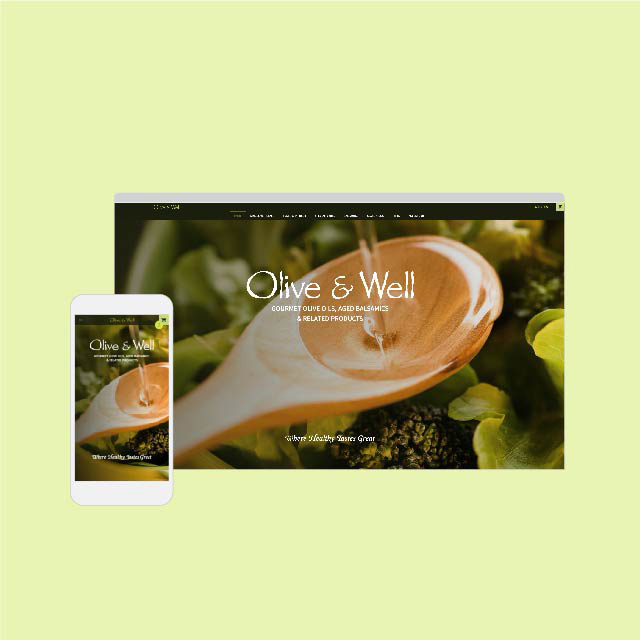
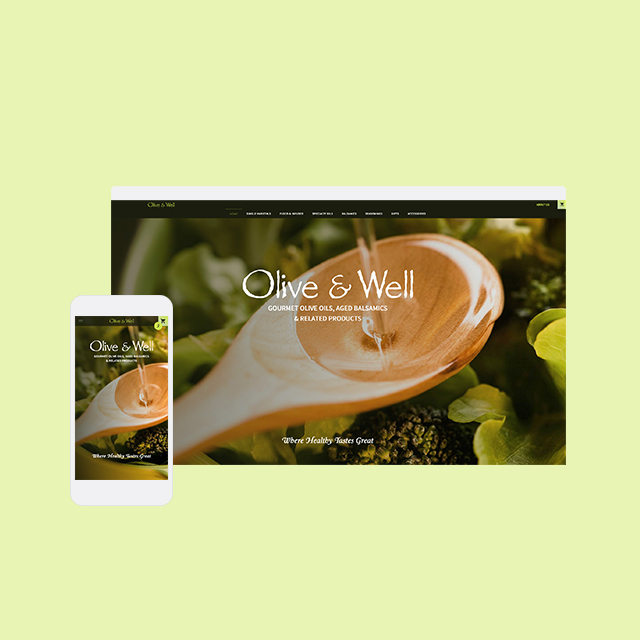
more stuff added

diff --git a/css/styles.css b/css/styles.css
@@ -1,1 +1,1 @@
-html,body,div,span,applet,object,iframe,h1,h2,h3,h4,h5,h6,p,blockquote,pre,a,abbr,acronym,address,big,cite,code,del,dfn,em,img,ins,kbd,q,s,samp,small,strike,strong,sub,sup,tt,var,b,u,i,center,dl,dt,dd,ol,ul,li,fieldset,form,label,legend,table,caption,tbody,tfoot,thead,tr,th,td,article,aside,canvas,details,embed,figure,figcaption,footer,header,hgroup,menu,nav,output,ruby,section,summary,time,mark,audio,video{margin:0;padding:0;border:0;font:inherit;font-size:100%;vertical-align:baseline}html{line-height:1}ol,ul{list-style:none}table{border-collapse:collapse;border-spacing:0}caption,th,td{text-align:left;font-weight:normal;vertical-align:middle}q,blockquote{quotes:none}q:before,q:after,blockquote:before,blockquote:after{content:"";content:none}a img{border:none}article,aside,details,figcaption,figure,footer,header,hgroup,main,menu,nav,section,summary{display:block}@media screen and (-ms-high-contrast: active), (-ms-high-contrast: none){img[src*=".svg"]{width:100%}}html,body{overflow-x:hidden}html{font-size:100%}@font-face{font-family:"SourceSansReg";src:url('../fonts/SourceSansPro-Regular.otf?1458185356') format('opentype')}@font-face{font-family:"SourceSansLight";src:url('../fonts/SourceSansPro-Light.otf?1458185356') format('opentype')}@font-face{font-family:"SourceSansBold";src:url('../fonts/SourceSansPro-Bold.otf?1458185356') format('opentype')}a{color:#191919;text-decoration:none}a:hover{color:#000;opacity:1}p{font-size:1rem;line-height:1.618rem;color:#191919}body{font-family:"futura-pt",sans-serif,"SourceSansReg";margin:0px;padding:0px}@media (min-width: 320px){body{-moz-transition:all 1s ease-out;-o-transition:all 1s ease-out;-webkit-transition:all 1s ease-out;transition:all 1s ease-out}body h1{font-size:4.2358rem;font-weight:300}body h2{font-size:2.61792rem;font-weight:400}body h3{font-size:1.618rem}body h4{font-size:1rem;text-transform:uppercase}}@media (min-width: 760px){body{-moz-transition:all 1s ease-out;-o-transition:all 1s ease-out;-webkit-transition:all 1s ease-out;transition:all 1s ease-out}}@media (min-width: 980px){body{-moz-transition:all 1s ease-out;-o-transition:all 1s ease-out;-webkit-transition:all 1s ease-out;transition:all 1s ease-out}}@media (min-width: 1240px){body{-moz-transition:all 1s ease-out;-o-transition:all 1s ease-out;-webkit-transition:all 1s ease-out;transition:all 1s ease-out}}@media (min-width: 1900px){body{-moz-transition:all 1s ease-out;-o-transition:all 1s ease-out;-webkit-transition:all 1s ease-out;transition:all 1s ease-out}}h1,h2,h3,h4{color:black}.mainContainer{width:100%;max-width:1880px;margin:0 auto}@media (min-width: 320px){.mainContainer{-moz-transition:all 1s ease-out;-o-transition:all 1s ease-out;-webkit-transition:all 1s ease-out;transition:all 1s ease-out}.mainContainer .contacts{width:100%}.mainContainer .contacts .contactInfo{padding-top:1.618rem;padding-right:2.61792rem}.mainContainer .contacts .contactInfo p{font-size:1rem;line-height:2.61792rem;font-weight:300;text-align:right}.mainContainer .contacts .contactInfo p a{text-decoration:none;color:white}.mainContainer .header{width:1580px;height:240px;position:absolute;-moz-transform:translateX(-50%);-ms-transform:translateX(-50%);-webkit-transform:translateX(-50%);transform:translateX(-50%);left:50%;top:0px;opacity:0.5}.mainContainer .header p{font-size:1.618rem;text-transform:uppercase;color:black;padding-top:108px}.mainContainer .header .pageTitle{float:left;width:50%;z-index:979}.mainContainer .header .pageTitle p{font-weight:300}.mainContainer .header .projectTitle{float:left;width:50%;z-index:979}.mainContainer .header .projectTitle p{font-weight:300;text-transform:none}.mainContainer .header .links div{float:right;margin-left:6.85353rem;padding-bottom:1.618rem}.mainContainer .header .links div a{text-decoration:none}.mainContainer .header .links div p{font-weight:700}.mainContainer .header .links .active{border-bottom:5px solid #191919}}@media (min-width: 320px) and (min-width: 320px){.mainContainer .navbg-hidden{will-change:transform;-moz-transition:all 0.9s ease-out;-o-transition:all 0.9s ease-out;-webkit-transition:all 0.9s ease-out;transition:all 0.9s ease-out;position:fixed;background-color:white;z-index:99;opacity:1}}@media (min-width: 320px){.mainContainer .spacer{height:240px}.mainContainer .workContainer{width:1580px;margin:240px auto 0}.mainContainer .workContainer .projectName p{font-weight:700;font-size:1.618rem}.mainContainer .workContainer .next{float:right}.mainContainer .workContainer .content{padding-top:6.85353rem}.mainContainer .workContainer .content h4{font-size:1rem;text-transform:uppercase;text-align:center;padding-bottom:11.08901rem}.mainContainer .workContainer .content p{padding-bottom:11.08901rem;width:480px;margin:0 auto}.mainContainer .workContainer .content img{width:100%;padding-bottom:11.08901rem}.mainContainer .portrait{margin-top:240px}.mainContainer .portrait img{width:520px}.mainContainer .aboutText{width:100%}.mainContainer .aboutText div{padding:11.08901rem 2.61792rem}.mainContainer .aboutText div p{font-family:"futura-pt",sans-serif;font-size:1rem;line-height:1.618rem;font-weight:400}.mainContainer .aboutText div dfn{font-style:italic;font-size:1rem;line-height:1rem}.mainContainer .aboutText div em{font-style:italic;font-size:0.61805rem}.mainContainer .columns{width:50%;float:left}.mainContainer .columns .slickContainer{width:68%;margin:0 auto}.mainContainer .columns .workText{height:240px}.mainContainer .columns .workText a{text-decoration:none}.mainContainer .columns .workText p:first-of-type{font-family:"futura-pt",sans-serif,"SourceSansBold";font-weight:700;font-style:normal;font-size:1.618rem;line-height:4.2358rem;letter-spacing:0.05px;padding-top:27px}.mainContainer .columns .workText p:last-of-type{font-family:"futura-pt",sans-serif,"SourceSansReg";font-weight:400;font-style:normal;font-size:1rem;line-height:1.618rem;letter-spacing:0.07px}.mainContainer .columns .workText .aboutWork{font-style:italic;color:gray;font-size:0.61805rem}}@media (min-width: 760px){.mainContainer{-moz-transition:all 1s ease-out;-o-transition:all 1s ease-out;-webkit-transition:all 1s ease-out;transition:all 1s ease-out}.mainContainer .fclogo{width:22px;top:34px;left:2.61792rem}.mainContainer .contacts .contactInfo{padding-top:2.61792rem;padding-right:4.2358rem}.mainContainer .contacts .contactInfo p{font-size:1rem;line-height:4vh;font-weight:300}.mainContainer .contacts .contactInfo p a{text-decoration:none;color:white}.mainContainer .artbox{width:99vw;height:99.5vh}.mainContainer .aboutText div{padding:10vh 2.61792rem;width:480px;-moz-transform:translateX(-50%);-ms-transform:translateX(-50%);-webkit-transform:translateX(-50%);transform:translateX(-50%);left:50%;position:absolute}}@media (min-width: 980px){.mainContainer{-moz-transition:all 1s ease-out;-o-transition:all 1s ease-out;-webkit-transition:all 1s ease-out;transition:all 1s ease-out}.mainContainer .contacts .contactInfo{padding-top:1.618rem;padding-right:4.2358rem}.mainContainer .contacts .contactInfo p{font-size:1rem;line-height:4vh;font-weight:300}}@media (min-width: 1240px){.mainContainer{-moz-transition:all 1s ease-out;-o-transition:all 1s ease-out;-webkit-transition:all 1s ease-out;transition:all 1s ease-out}.mainContainer .fclogo{width:20px;top:32px;left:2.61792rem;cursor:pointer}.mainContainer .contacts .contactInfo{padding-top:1.618rem;padding-right:4.2358rem}.mainContainer .contacts .contactInfo p{font-size:1rem;line-height:2.61792rem;font-weight:300}.mainContainer .aboutText{width:100%}.mainContainer .aboutText div{-moz-transition:all 1s ease-out;-o-transition:all 1s ease-out;-webkit-transition:all 1s ease-out;transition:all 1s ease-out;position:relative;width:480px;padding:11.08901rem 2.61792rem}.mainContainer .aboutText div p{font-weight:400;line-height:1.618rem;color:black}}@media (min-width: 1900px){.mainContainer{-moz-transition:all 1s ease-out;-o-transition:all 1s ease-out;-webkit-transition:all 1s ease-out;transition:all 1s ease-out}.mainContainer .fclogo{width:24px;top:40px;left:4.2358rem;z-index:999;cursor:pointer}.mainContainer .contacts{width:100%;height:17.94201rem;padding-top:1.618rem}.mainContainer .contacts .contactInfo{padding-right:11.08901rem}.mainContainer .contacts .contactInfo p{font-size:1rem;line-height:4.2358rem;font-weight:400}.mainContainer .contacts .contactInfo p a{text-decoration:none;color:white}.mainContainer .circle{-moz-transition-delay:0s;-o-transition-delay:0s;-webkit-transition-delay:0s;transition-delay:0s;-moz-transition-duration:0.2s;-o-transition-duration:0.2s;-webkit-transition-duration:0.2s;transition-duration:0.2s;-moz-transition-timing-function:ease-out;-o-transition-timing-function:ease-out;-webkit-transition-timing-function:ease-out;transition-timing-function:ease-out;width:44px;height:44px;top:2.61792rem;right:2.61792rem;opacity:1}.mainContainer .circle.square{-moz-transition-delay:0s;-o-transition-delay:0s;-webkit-transition-delay:0s;transition-delay:0s;-moz-transition-duration:0.2s;-o-transition-duration:0.2s;-webkit-transition-duration:0.2s;transition-duration:0.2s;-moz-transition-timing-function:ease-in;-o-transition-timing-function:ease-in;-webkit-transition-timing-function:ease-in;transition-timing-function:ease-in;height:100%;width:100%;top:0px;right:0px;border:0px;-moz-border-radius:0px;-webkit-border-radius:0px;border-radius:0px;opacity:0.9}.mainContainer .aboutText div{position:absolute;width:960px;-moz-column-count:2;-webkit-column-count:2;column-count:2;-moz-column-gap:11.08901rem;-webkit-column-gap:11.08901rem;column-gap:11.08901rem;max-width:1100px;-moz-transform:translateX(-50%);-ms-transform:translateX(-50%);-webkit-transform:translateX(-50%);transform:translateX(-50%);top:8%;left:50%}.mainContainer .aboutText div p{font-size:1rem;font-weight:400;line-height:1.618rem}}footer{font-family:"SourceSansReg"}@media (min-width: 320px){footer{-moz-transition:all 1s ease-out;-o-transition:all 1s ease-out;-webkit-transition:all 1s ease-out;transition:all 1s ease-out}footer .copyright{position:fixed;padding:0.61805rem;right:10px;bottom:150px;-moz-transform:rotate(-90deg);-ms-transform:rotate(-90deg);-webkit-transform:rotate(-90deg);transform:rotate(-90deg);-moz-transform-origin:100% 50%;-ms-transform-origin:100% 50%;-webkit-transform-origin:100% 50%;transform-origin:100% 50%;z-index:999}footer .copyright p{font-size:0.61805rem;color:gray;font-weight:400;line-height:1rem;letter-spacing:0.04rem;opacity:0.8}}@media (min-width: 760px){footer{-moz-transition:all 1s ease-out;-o-transition:all 1s ease-out;-webkit-transition:all 1s ease-out;transition:all 1s ease-out}footer .copyright p{font-size:0.61805rem;line-height:1rem}}@media (min-width: 980px){footer{-moz-transition:all 1s ease-out;-o-transition:all 1s ease-out;-webkit-transition:all 1s ease-out;transition:all 1s ease-out}}@media (min-width: 1240px){footer{-moz-transition:all 1s ease-out;-o-transition:all 1s ease-out;-webkit-transition:all 1s ease-out;transition:all 1s ease-out}footer .copyright{padding:0.61805rem;right:10px;bottom:150px}}@media (min-width: 1900px){footer{-moz-transition:all 1s ease-out;-o-transition:all 1s ease-out;-webkit-transition:all 1s ease-out;transition:all 1s ease-out}footer .copyright{right:1.618rem;bottom:200px}}@media (min-width: 320px){body{-moz-transition:all 1s ease-out;-o-transition:all 1s ease-out;-webkit-transition:all 1s ease-out;transition:all 1s ease-out}body .slick-prev,body .slick-next{position:absolute;z-index:900;display:block;height:40px;width:40px;line-height:0px;font-size:0px;cursor:pointer;background:transparent;color:transparent;top:50%;-moz-transform:translate(0, -50%) scale(1);-ms-transform:translate(0, -50%) scale(1);-webkit-transform:translate(0, -50%) scale(1);transform:translate(0, -50%) scale(1);padding:0;border:none;outline:none}body .slick-prev:hover,body .slick-prev:focus,body .slick-next:hover,body .slick-next:focus{outline:none;background:transparent;color:transparent}body .slick-prev:hover:before,body .slick-prev:focus:before,body .slick-next:hover:before,body .slick-next:focus:before{opacity:1}body .slick-prev.slick-disabled:before,body .slick-next.slick-disabled:before{opacity:1}body .slick-prev:before,body .slick-next:before{font-family:"futura-pt",sans-serif;font-size:1.618rem;line-height:1;color:#191919;opacity:0;-webkit-font-smoothing:antialiased;-moz-osx-font-smoothing:grayscale}body .slick-prev{left:1rem}[dir="ltr"] body .slick-prev{left:auto;right:1rem}body .slick-prev:before{content:" ≪ "}[dir="ltr"] body .slick-prev:before{content:" ≫ "}body .slick-next{right:1rem}[dir="ltr"] body .slick-next{left:1rem;right:auto}body .slick-next:before{content:" ≫ "}[dir="ltr"] body .slick-next:before{content:" ≪ "}body .slick-slide{z-index:-1}body .slick-slide img{width:100%;position:relative;cursor:pointer;margin:0 auto}body .slick-dotted.slick-slider{margin-bottom:1rem}body .slick-dots{position:absolute;list-style:none;display:block;text-align:center;padding:0;margin:0;width:100%}body .slick-dots li{position:relative;display:inline-block;height:44px;width:30px;margin:0.61805rem 0.61805rem;padding:0;cursor:pointer}body .slick-dots li button{border:0;background:transparent;display:block;height:44px;width:44px;outline:none;line-height:0px;font-size:0px;color:transparent;padding:5px;cursor:pointer;-moz-transform:scale(0.5);-ms-transform:scale(0.5);-webkit-transform:scale(0.5);transform:scale(0.5)}body .slick-dots li button:hover,body .slick-dots li button:focus{outline:none}body .slick-dots li button:hover:before,body .slick-dots li button:focus:before{opacity:1}body .slick-dots li button:before{position:absolute;top:0;left:0;content:" ● ";width:44px;height:44px;font-family:"futura-pt",sans-serif;font-size:1rem;line-height:20px;text-align:center;color:#191919;opacity:1;-webkit-font-smoothing:antialiased;-moz-osx-font-smoothing:grayscale}body .slick-dots li.slick-active button:before{color:dimgray;opacity:1}}@media (min-width: 760px){body{-moz-transition:all 1s ease-out;-o-transition:all 1s ease-out;-webkit-transition:all 1s ease-out;transition:all 1s ease-out}}@media (min-width: 980px){body{-moz-transition:all 1s ease-out;-o-transition:all 1s ease-out;-webkit-transition:all 1s ease-out;transition:all 1s ease-out}}@media (min-width: 1240px){body{-moz-transition:all 1s ease-out;-o-transition:all 1s ease-out;-webkit-transition:all 1s ease-out;transition:all 1s ease-out}}@media (min-width: 1900px){body{-moz-transition:all 1s ease-out;-o-transition:all 1s ease-out;-webkit-transition:all 1s ease-out;transition:all 1s ease-out}}
+html,body,div,span,applet,object,iframe,h1,h2,h3,h4,h5,h6,p,blockquote,pre,a,abbr,acronym,address,big,cite,code,del,dfn,em,img,ins,kbd,q,s,samp,small,strike,strong,sub,sup,tt,var,b,u,i,center,dl,dt,dd,ol,ul,li,fieldset,form,label,legend,table,caption,tbody,tfoot,thead,tr,th,td,article,aside,canvas,details,embed,figure,figcaption,footer,header,hgroup,menu,nav,output,ruby,section,summary,time,mark,audio,video{margin:0;padding:0;border:0;font:inherit;font-size:100%;vertical-align:baseline}html{line-height:1}ol,ul{list-style:none}table{border-collapse:collapse;border-spacing:0}caption,th,td{text-align:left;font-weight:normal;vertical-align:middle}q,blockquote{quotes:none}q:before,q:after,blockquote:before,blockquote:after{content:"";content:none}a img{border:none}article,aside,details,figcaption,figure,footer,header,hgroup,main,menu,nav,section,summary{display:block}@media screen and (-ms-high-contrast: active), (-ms-high-contrast: none){img[src*=".svg"]{width:100%}}html,body{overflow-x:hidden}html{font-size:100%}@font-face{font-family:"SourceSansReg";src:url('../fonts/SourceSansPro-Regular.otf?1458185356') format('opentype')}@font-face{font-family:"SourceSansLight";src:url('../fonts/SourceSansPro-Light.otf?1458185356') format('opentype')}@font-face{font-family:"SourceSansBold";src:url('../fonts/SourceSansPro-Bold.otf?1458185356') format('opentype')}a{color:#191919;text-decoration:none}a:hover{color:#000;opacity:1}p{font-size:1rem;line-height:1.618rem;color:#191919}body{font-family:"futura-pt",sans-serif,"SourceSansReg";margin:0px;padding:0px}@media (min-width: 320px){body{-moz-transition:all 1s ease-out;-o-transition:all 1s ease-out;-webkit-transition:all 1s ease-out;transition:all 1s ease-out}body h1{font-size:4.2358rem;font-weight:300}body h2{font-size:2.61792rem;font-weight:400}body h3{font-size:1.618rem}body h4{font-size:1rem;text-transform:uppercase}}@media (min-width: 760px){body{-moz-transition:all 1s ease-out;-o-transition:all 1s ease-out;-webkit-transition:all 1s ease-out;transition:all 1s ease-out}}@media (min-width: 980px){body{-moz-transition:all 1s ease-out;-o-transition:all 1s ease-out;-webkit-transition:all 1s ease-out;transition:all 1s ease-out}}@media (min-width: 1240px){body{-moz-transition:all 1s ease-out;-o-transition:all 1s ease-out;-webkit-transition:all 1s ease-out;transition:all 1s ease-out}}@media (min-width: 1900px){body{-moz-transition:all 1s ease-out;-o-transition:all 1s ease-out;-webkit-transition:all 1s ease-out;transition:all 1s ease-out}}h1,h2,h3,h4{color:black}.mainContainer{width:100%;max-width:1880px;margin:0 auto}@media (min-width: 320px){.mainContainer{-moz-transition:all 1s ease-out;-o-transition:all 1s ease-out;-webkit-transition:all 1s ease-out;transition:all 1s ease-out}.mainContainer .contacts{width:100%}.mainContainer .contacts .contactInfo{padding-top:1.618rem;padding-right:2.61792rem}.mainContainer .contacts .contactInfo p{font-size:1rem;line-height:2.61792rem;font-weight:300;text-align:right}.mainContainer .contacts .contactInfo p a{text-decoration:none;color:white}.mainContainer .header{width:1580px;height:240px;position:absolute;-moz-transform:translateX(-50%);-ms-transform:translateX(-50%);-webkit-transform:translateX(-50%);transform:translateX(-50%);left:50%;top:0px;opacity:0.35}.mainContainer .header p{font-size:1.618rem;text-transform:uppercase;color:black;padding-top:108px}.mainContainer .header .pageTitle{float:left;width:50%;z-index:979}.mainContainer .header .pageTitle p{font-weight:300}.mainContainer .header .projectTitle{float:left;width:50%;z-index:979}.mainContainer .header .projectTitle p{font-weight:300;text-transform:none}.mainContainer .header .links div{float:right;margin-left:6.85353rem;padding-bottom:1.618rem}.mainContainer .header .links div a{text-decoration:none}.mainContainer .header .links div p{font-weight:700}.mainContainer .header .links .active{border-bottom:5px solid #191919}}@media (min-width: 320px) and (min-width: 320px){.mainContainer .navbg-hidden{will-change:transform;-moz-transition:all 0.9s ease-out;-o-transition:all 0.9s ease-out;-webkit-transition:all 0.9s ease-out;transition:all 0.9s ease-out;position:fixed;background-color:white;z-index:99;opacity:1}}@media (min-width: 320px){.mainContainer .spacer{height:240px}.mainContainer .workContainer{width:1580px;margin:240px auto 0}.mainContainer .workContainer .projectName p{font-weight:700;font-size:1.618rem}.mainContainer .workContainer .next{float:right}.mainContainer .workContainer .content{padding-top:6.85353rem}.mainContainer .workContainer .content h4{font-size:1rem;text-transform:uppercase;text-align:center;padding-bottom:11.08901rem}.mainContainer .workContainer .content p{padding-bottom:11.08901rem;width:480px;margin:0 auto}.mainContainer .workContainer .content img{width:100%;padding-bottom:11.08901rem}.mainContainer .portrait{margin-top:240px}.mainContainer .portrait img{width:520px}.mainContainer .aboutText{width:100%}.mainContainer .aboutText div{padding:11.08901rem 2.61792rem}.mainContainer .aboutText div p{font-family:"futura-pt",sans-serif;font-size:1rem;line-height:1.618rem;font-weight:400}.mainContainer .aboutText div dfn{font-style:italic;font-size:1rem;line-height:1rem}.mainContainer .aboutText div em{font-style:italic;font-size:0.61805rem}.mainContainer .columns{width:50%;float:left}.mainContainer .columns .slickContainer{width:68%;margin:0 auto}.mainContainer .columns .workText{height:240px}.mainContainer .columns .workText a{text-decoration:none}.mainContainer .columns .workText p:first-of-type{font-family:"futura-pt",sans-serif,"SourceSansBold";font-weight:700;font-style:normal;font-size:1.618rem;line-height:4.2358rem;letter-spacing:0.05px;padding-top:27px}.mainContainer .columns .workText p:last-of-type{font-family:"futura-pt",sans-serif,"SourceSansReg";font-weight:400;font-style:normal;font-size:1rem;line-height:1.618rem;letter-spacing:0.07px}.mainContainer .columns .workText .aboutWork{font-style:italic;color:gray;font-size:0.61805rem}}@media (min-width: 760px){.mainContainer{-moz-transition:all 1s ease-out;-o-transition:all 1s ease-out;-webkit-transition:all 1s ease-out;transition:all 1s ease-out}.mainContainer .fclogo{width:22px;top:34px;left:2.61792rem}.mainContainer .contacts .contactInfo{padding-top:2.61792rem;padding-right:4.2358rem}.mainContainer .contacts .contactInfo p{font-size:1rem;line-height:4vh;font-weight:300}.mainContainer .contacts .contactInfo p a{text-decoration:none;color:white}.mainContainer .artbox{width:99vw;height:99.5vh}.mainContainer .aboutText div{padding:10vh 2.61792rem;width:480px;-moz-transform:translateX(-50%);-ms-transform:translateX(-50%);-webkit-transform:translateX(-50%);transform:translateX(-50%);left:50%;position:absolute}}@media (min-width: 980px){.mainContainer{-moz-transition:all 1s ease-out;-o-transition:all 1s ease-out;-webkit-transition:all 1s ease-out;transition:all 1s ease-out}.mainContainer .contacts .contactInfo{padding-top:1.618rem;padding-right:4.2358rem}.mainContainer .contacts .contactInfo p{font-size:1rem;line-height:4vh;font-weight:300}}@media (min-width: 1240px){.mainContainer{-moz-transition:all 1s ease-out;-o-transition:all 1s ease-out;-webkit-transition:all 1s ease-out;transition:all 1s ease-out}.mainContainer .fclogo{width:20px;top:32px;left:2.61792rem;cursor:pointer}.mainContainer .contacts .contactInfo{padding-top:1.618rem;padding-right:4.2358rem}.mainContainer .contacts .contactInfo p{font-size:1rem;line-height:2.61792rem;font-weight:300}.mainContainer .aboutText{width:100%}.mainContainer .aboutText div{-moz-transition:all 1s ease-out;-o-transition:all 1s ease-out;-webkit-transition:all 1s ease-out;transition:all 1s ease-out;position:relative;width:480px;padding:11.08901rem 2.61792rem}.mainContainer .aboutText div p{font-weight:400;line-height:1.618rem;color:black}}@media (min-width: 1900px){.mainContainer{-moz-transition:all 1s ease-out;-o-transition:all 1s ease-out;-webkit-transition:all 1s ease-out;transition:all 1s ease-out}.mainContainer .fclogo{width:24px;top:40px;left:4.2358rem;z-index:999;cursor:pointer}.mainContainer .contacts{width:100%;height:17.94201rem;padding-top:1.618rem}.mainContainer .contacts .contactInfo{padding-right:11.08901rem}.mainContainer .contacts .contactInfo p{font-size:1rem;line-height:4.2358rem;font-weight:400}.mainContainer .contacts .contactInfo p a{text-decoration:none;color:white}.mainContainer .circle{-moz-transition-delay:0s;-o-transition-delay:0s;-webkit-transition-delay:0s;transition-delay:0s;-moz-transition-duration:0.2s;-o-transition-duration:0.2s;-webkit-transition-duration:0.2s;transition-duration:0.2s;-moz-transition-timing-function:ease-out;-o-transition-timing-function:ease-out;-webkit-transition-timing-function:ease-out;transition-timing-function:ease-out;width:44px;height:44px;top:2.61792rem;right:2.61792rem;opacity:1}.mainContainer .circle.square{-moz-transition-delay:0s;-o-transition-delay:0s;-webkit-transition-delay:0s;transition-delay:0s;-moz-transition-duration:0.2s;-o-transition-duration:0.2s;-webkit-transition-duration:0.2s;transition-duration:0.2s;-moz-transition-timing-function:ease-in;-o-transition-timing-function:ease-in;-webkit-transition-timing-function:ease-in;transition-timing-function:ease-in;height:100%;width:100%;top:0px;right:0px;border:0px;-moz-border-radius:0px;-webkit-border-radius:0px;border-radius:0px;opacity:0.9}.mainContainer .aboutText div{position:absolute;width:960px;-moz-column-count:2;-webkit-column-count:2;column-count:2;-moz-column-gap:11.08901rem;-webkit-column-gap:11.08901rem;column-gap:11.08901rem;max-width:1100px;-moz-transform:translateX(-50%);-ms-transform:translateX(-50%);-webkit-transform:translateX(-50%);transform:translateX(-50%);top:8%;left:50%}.mainContainer .aboutText div p{font-size:1rem;font-weight:400;line-height:1.618rem}}footer{font-family:"SourceSansReg"}@media (min-width: 320px){footer{-moz-transition:all 1s ease-out;-o-transition:all 1s ease-out;-webkit-transition:all 1s ease-out;transition:all 1s ease-out}footer .copyright{position:fixed;padding:0.61805rem;right:10px;bottom:150px;-moz-transform:rotate(-90deg);-ms-transform:rotate(-90deg);-webkit-transform:rotate(-90deg);transform:rotate(-90deg);-moz-transform-origin:100% 50%;-ms-transform-origin:100% 50%;-webkit-transform-origin:100% 50%;transform-origin:100% 50%;z-index:999}footer .copyright p{font-size:0.61805rem;color:gray;font-weight:400;line-height:1rem;letter-spacing:0.04rem;opacity:0.8}}@media (min-width: 760px){footer{-moz-transition:all 1s ease-out;-o-transition:all 1s ease-out;-webkit-transition:all 1s ease-out;transition:all 1s ease-out}footer .copyright p{font-size:0.61805rem;line-height:1rem}}@media (min-width: 980px){footer{-moz-transition:all 1s ease-out;-o-transition:all 1s ease-out;-webkit-transition:all 1s ease-out;transition:all 1s ease-out}}@media (min-width: 1240px){footer{-moz-transition:all 1s ease-out;-o-transition:all 1s ease-out;-webkit-transition:all 1s ease-out;transition:all 1s ease-out}footer .copyright{padding:0.61805rem;right:10px;bottom:150px}}@media (min-width: 1900px){footer{-moz-transition:all 1s ease-out;-o-transition:all 1s ease-out;-webkit-transition:all 1s ease-out;transition:all 1s ease-out}footer .copyright{right:1.618rem;bottom:200px}}@media (min-width: 320px){body{-moz-transition:all 1s ease-out;-o-transition:all 1s ease-out;-webkit-transition:all 1s ease-out;transition:all 1s ease-out}body .slick-prev,body .slick-next{position:absolute;z-index:900;display:block;height:40px;width:40px;line-height:0px;font-size:0px;cursor:pointer;background:transparent;color:transparent;top:50%;-moz-transform:translate(0, -50%) scale(1);-ms-transform:translate(0, -50%) scale(1);-webkit-transform:translate(0, -50%) scale(1);transform:translate(0, -50%) scale(1);padding:0;border:none;outline:none}body .slick-prev:hover,body .slick-prev:focus,body .slick-next:hover,body .slick-next:focus{outline:none;background:transparent;color:transparent}body .slick-prev:hover:before,body .slick-prev:focus:before,body .slick-next:hover:before,body .slick-next:focus:before{opacity:1}body .slick-prev.slick-disabled:before,body .slick-next.slick-disabled:before{opacity:1}body .slick-prev:before,body .slick-next:before{font-family:"futura-pt",sans-serif;font-size:1.618rem;line-height:1;color:#191919;opacity:0;-webkit-font-smoothing:antialiased;-moz-osx-font-smoothing:grayscale}body .slick-prev{left:1rem}[dir="ltr"] body .slick-prev{left:auto;right:1rem}body .slick-prev:before{content:" ≪ "}[dir="ltr"] body .slick-prev:before{content:" ≫ "}body .slick-next{right:1rem}[dir="ltr"] body .slick-next{left:1rem;right:auto}body .slick-next:before{content:" ≫ "}[dir="ltr"] body .slick-next:before{content:" ≪ "}body .slick-slide{z-index:-1}body .slick-slide img{width:100%;position:relative;cursor:pointer;margin:0 auto}body .slick-dotted.slick-slider{margin-bottom:1rem}body .slick-dots{position:absolute;list-style:none;display:block;text-align:center;padding:0;margin:0;width:100%}body .slick-dots li{position:relative;display:inline-block;height:44px;width:30px;margin:0.61805rem 0.61805rem;padding:0;cursor:pointer}body .slick-dots li button{border:0;background:transparent;display:block;height:44px;width:44px;outline:none;line-height:0px;font-size:0px;color:transparent;padding:5px;cursor:pointer;-moz-transform:scale(0.5);-ms-transform:scale(0.5);-webkit-transform:scale(0.5);transform:scale(0.5)}body .slick-dots li button:hover,body .slick-dots li button:focus{outline:none}body .slick-dots li button:hover:before,body .slick-dots li button:focus:before{opacity:1}body .slick-dots li button:before{position:absolute;top:0;left:0;content:" ● ";width:44px;height:44px;font-family:"futura-pt",sans-serif;font-size:1rem;line-height:20px;text-align:center;color:#191919;opacity:1;-webkit-font-smoothing:antialiased;-moz-osx-font-smoothing:grayscale}body .slick-dots li.slick-active button:before{color:dimgray;opacity:1}}@media (min-width: 760px){body{-moz-transition:all 1s ease-out;-o-transition:all 1s ease-out;-webkit-transition:all 1s ease-out;transition:all 1s ease-out}}@media (min-width: 980px){body{-moz-transition:all 1s ease-out;-o-transition:all 1s ease-out;-webkit-transition:all 1s ease-out;transition:all 1s ease-out}}@media (min-width: 1240px){body{-moz-transition:all 1s ease-out;-o-transition:all 1s ease-out;-webkit-transition:all 1s ease-out;transition:all 1s ease-out}}@media (min-width: 1900px){body{-moz-transition:all 1s ease-out;-o-transition:all 1s ease-out;-webkit-transition:all 1s ease-out;transition:all 1s ease-out}}

diff --git a/templates/oliveandwell/index.html b/templates/oliveandwell/index.html
@@ -13,7 +13,7 @@
 		<p>Olive and Well</p>
 	</div>
 	<div class="content">
-		<p>At this store in Chicago, Illinois, customers are able to taste their premium olive oils and balsamic vinegars before making their selection. Oils and vinegars are bottled from the same Italian Fusti (stainless steel tank) that they sample at the store. Visual aspects of the design reflect on this idea, since the store uses the same type of bottles in four sizes, the design tries to emphasize what is the content of the bottle rather than the bottles itself.</p>
+		<p>At this store in Chicago, Illinois, customers are able to taste their premium olive oils and balsamic vinegars before making their selection. Oils and vinegars are bottled from the same Italian Fusti (stainless steel tank) that they sample at the store. Visual aspects of the design reflect on this idea, since the store uses the same type of bottles in four sizes, products are displayed with an emphasis on the flavour rather than the bottle itself.</p>
 		<img src="images/work/oliveandwell/oliveandwell-01-frankcastro.com.jpg" alt="Olive and Well responsive e-commerce website, home page view on smartphone and desktop. Design and code by Frank Castro. www.frankcastro.com">
 		<img src="images/work/oliveandwell/oliveandwell-02-frankcastro.com.png" alt="Olive and Well responsive e-commerce website, home page view on smartphone and desktop. Design and code by Frank Castro. www.frankcastro.com">
 		<img src="images/work/oliveandwell/oliveandwell-03-frankcastro.com.jpg" alt="Olive and Well responsive e-commerce website, home page view on smartphone and desktop. Design and code by Frank Castro. www.frankcastro.com">

diff --git a/_/components/sass/_main.scss b/_/components/sass/_main.scss
@@ -39,7 +39,7 @@ $contentWidth: 1580px;
 			@include transform(translateX(-50%));
 			left: 50%;
 			top: 0px;
-			opacity: 0.5;
+			opacity: 0.35;
 
 			p {
 				font-size: ms(1);
